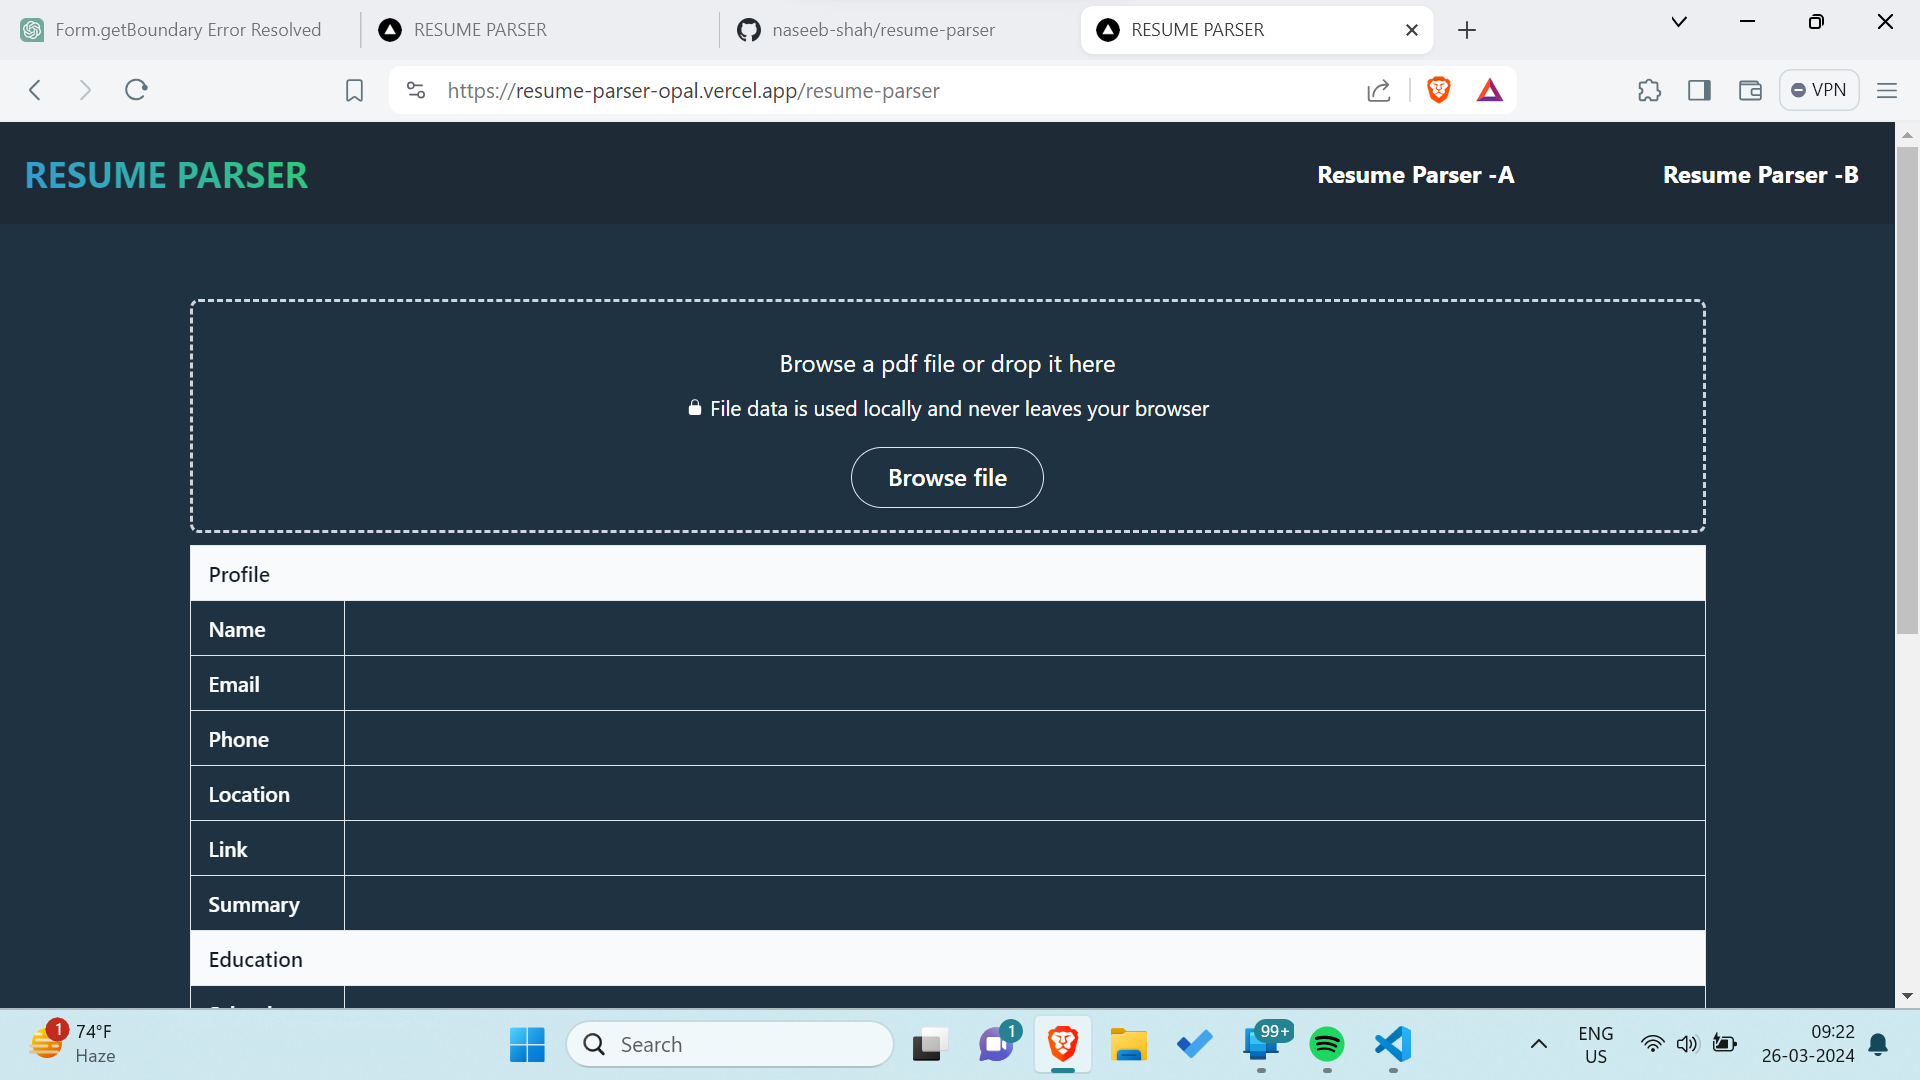
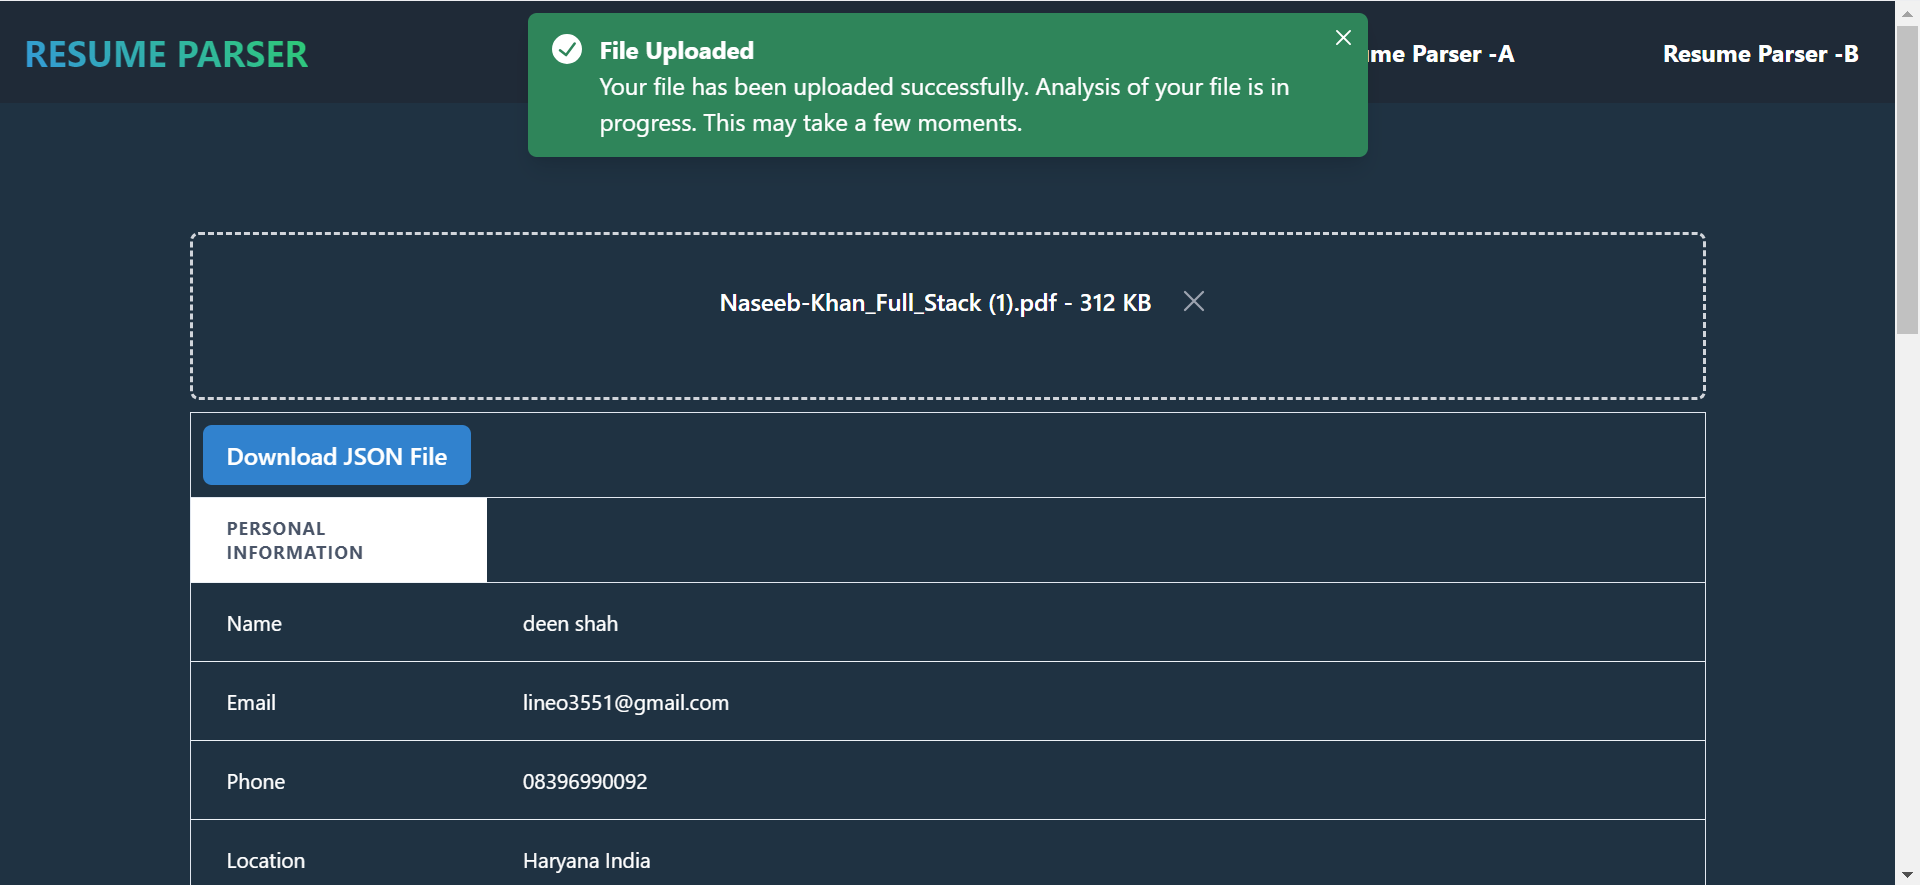
updated read.md

diff --git a/src/app/components/ResumeDropzone.tsx b/src/app/components/ResumeDropzone.tsx
@@ -3,7 +3,7 @@ import axios from "axios";
 import { LockClosedIcon } from "@heroicons/react/24/solid";
 import { XMarkIcon } from "@heroicons/react/24/outline";
 import FormData from "form-data";
-
+import { useToast } from "@chakra-ui/react";
 import { parseResumeFromPdf } from "../lib/parse-resume-from-pdf";
 import fs from "fs";
 
@@ -293,6 +293,8 @@ export const ResumeDropzone = ({
   playgroundView?: boolean;
   show?: boolean;
 }) => {
+  const toast = useToast();
+
   const [file, setFile] = useState(defaultFileState);
   const [isHoveredOnDropzone, setIsHoveredOnDropzone] = useState(false);
   const [hasNonPdfFile, setHasNonPdfFile] = useState(false);
@@ -328,7 +330,29 @@ export const ResumeDropzone = ({
     if (!files) return;
     const newFile = files[0];
 
+    if (newFile.size > 300 * 300) {
+      toast({
+        title: "FILE SIZE ERROR",
+        position: "top",
+        description: "File size exceeds the maximum limit of 1MB.",
+        status: "warning",
+        duration: 9000,
+        isClosable: true,
+      });
+
+      return;
+    }
     setNewFile(newFile);
+    toast({
+      title: "File Uploaded",
+      position: "top",
+      description:
+        "Your file has been uploaded successfully. Analysis of your file is in progress. This may take a few moments.",
+      status: "success",
+      duration: 9000,
+      isClosable: true,
+    });
+
     if (!show) {
       return;
     }

diff --git a/src/app/resume-parser/ResumeTable.tsx b/src/app/resume-parser/ResumeTable.tsx
@@ -87,7 +87,7 @@ export const ResumeTable = ({ resume }: { resume: Resume }) => {
   }, []);
   return (
     <table
-      className={`mt-2 w-full border mt-20 text-sm text-gray-900 ${animate ? "animate" : ""}`}
+      className={`mt-2 w-full border mt-20 mb-40 text-sm text-gray-900 ${animate ? "animate" : ""}`}
     >
       <Button
         colorScheme="blue"

diff --git a/README.md b/README.md
@@ -12,9 +12,10 @@ Resume Parser is a web application built with Next.js that allows users to parse
 
 ##
 
-![Image Description](/public/a.png)
-![Image Description](/public/b.png)
-![Image Description](/public/c.png)
+![Home page](/public/a.png)
+![Max Size](/public/b.png)
+![Success](/public/c.png)
+![Parser](/public/d.png)
 
 ## Installation
 
